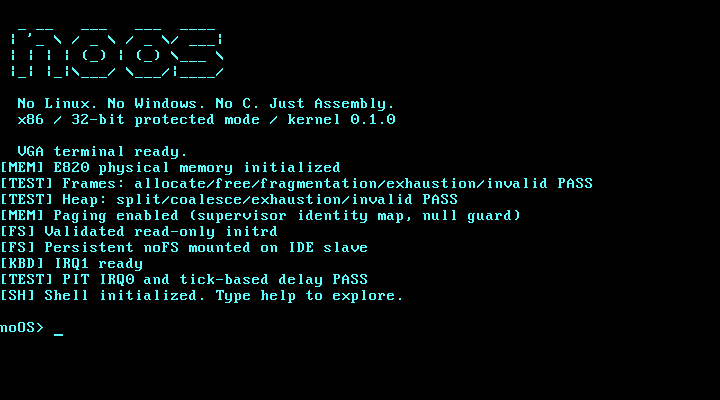
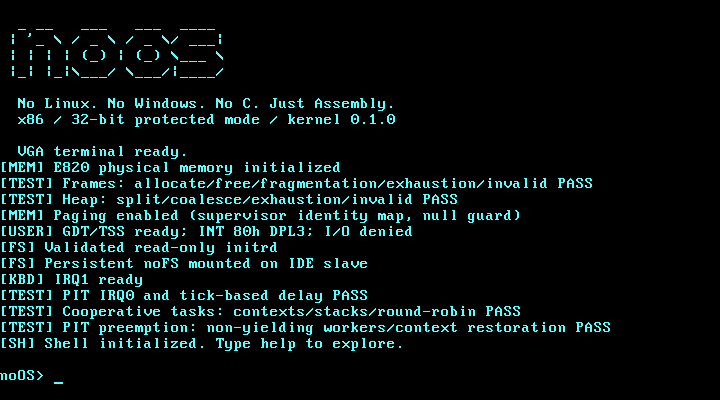
perf(memory): measure real frame allocations and refresh verified build evidence

Changed region(s): [[0.0, 0.57, 0.8556, 0.87], [0.0, 0.93, 0.0611, 0.96]]

diff --git a/tools/benchmark.py b/tools/benchmark.py
@@ -1,6 +1,7 @@
 """Host-observed QEMU latency, including QMP/TCG overhead; no hardware claims."""
 import json
 import pathlib
+import re
 import statistics
 import sys
 import time
@@ -11,6 +12,7 @@ from qemu import Machine
 
 boots = []
 responses = []
+frame_ticks = []
 for _ in range(3):
     start = time.monotonic()
     with Machine() as machine:
@@ -22,12 +24,18 @@ for _ in range(3):
         machine.key("ret")
         machine.wait("noOS 0.1.0", start=offset)
         responses.append((time.monotonic() - start) * 1000)
+        sample = machine.shell("bench", "below tick resolution.")
+        frame_ticks.append(int(re.search(r"elapsed PIT ticks: (\d+)", sample)[1]))
 report = {
     "method": "3 local QEMU TCG pc/128M boots; host wall time including QMP input overhead",
     "boot_to_prompt_ms": boots,
     "median_boot_to_prompt_ms": round(statistics.median(boots), 3),
     "enter_to_version_response_ms": responses,
     "median_enter_to_response_ms": round(statistics.median(responses), 3),
+    "frame_allocator": {"alloc_free_pairs_per_sample": 100000,
+                        "elapsed_pit_ticks": frame_ticks,
+                        "pit_divisor": 11932, "pit_clock_hz": 1193182,
+                        "limits": "Quantized elapsed time includes IRQs; 0 means below one tick."},
     "binary_bytes": {name: (ROOT / "build" / name).stat().st_size
                      for name in ("stage1.bin", "stage2.bin", "kernel.bin", "noos.img")},
     "memory": "128 MiB management ceiling; 64 KiB heap arena; 33 pinned paging frames",

diff --git a/tests/test_memory.py b/tests/test_memory.py
@@ -35,4 +35,9 @@ for memory in ("16M", "64M", "128M", "256M"):
                                                 min(32768, (base + length + 4095) // 4096)))
         assert managed == len(eligible)
         assert used == 33
+        report = machine.shell("bench", "below tick resolution.")
+        assert re.search(r"100000 alloc/free pairs; elapsed PIT ticks: \d+", report)
+        after = machine.shell("mem", "heap arena: 64 KiB")
+        assert int(re.search(r"Free frames: (\d+)", after)[1]) == free
+        assert int(re.search(r"Allocated frames: (\d+)", after)[1]) == used
         print(f"PASS: {memory} E820={usable}KiB, managed={managed}, free={free}, used={used}")

diff --git a/README.md b/README.md
@@ -36,7 +36,7 @@ make run
 ```
 
 On Debian/Ubuntu, install `nasm qemu-system-x86 gdb make python3` instead.
-Verified locally with NASM 3.02, QEMU 11.1.1, GNU Make 3.81, Python 3.14 and
+Verified locally with NASM 3.02, QEMU 11.1.1, GNU Make 3.81, Python 3.12.5 and
 cross GDB 18.1. CI tests Ubuntu's packaged NASM/QEMU/GDB independently.
 
 Use the **QEMU window** for PS/2 keyboard input. The host terminal receives COM1
@@ -50,6 +50,7 @@ halts the guest CPU, while `reboot` restarts the guest.
 | `history` | Eight most recent nonempty commands, including itself |
 | `color FB` | Hex foreground/background; `color e1` is yellow on blue |
 | `mem` | E820 usable RAM, managed/allocated/free frames and heap usage |
+| `bench` | Time 100,000 actual frame allocation/free pairs using PIT ticks |
 | `uptime` | Actual 64-bit PIT ticks and elapsed seconds |
 | `cpu` | CPUID vendor, family, model, stepping and feature bits |
 | `sysinfo` | Kernel, paging, CPU, memory, timer and keyboard IRQ statistics |
@@ -87,6 +88,9 @@ data powers the website. After verifying a gate, update its boolean and run
 `python3 tools/progress.py`; `make test` rejects a stale README or site copy.
 [The full roadmap](docs/roadmap.md) includes persistent storage, scheduling,
 ring 3/syscalls, validated ELF32 loading and a separate future x86-64 path.
+The 40-gate v0.1 checklist is complete; it is a bounded milestone scope, not
+production maturity. Future work includes concurrent user scheduling, NX/PAE,
+power-loss testing and the [separate x86-64 plan](docs/x86-64.md).
 
 ## What is verified
 
@@ -155,24 +159,31 @@ three directory levels and 4 KiB files. The write command is bounded by the
 127-character shell line. It has no encryption or secure deletion, and does
 not promise durability across arbitrary real-device power failures.
 
-### Measured foundation build
+### Measured builds
 
-| Artifact | Bytes |
-| --- | ---: |
-| Stage 1 executable | 512 |
-| Stage 2 executable | 641 |
-| Kernel executable and static data | 27,704 |
-| Raw disk, including sector padding | 32,768 |
+| Artifact | Foundation bytes | v0.1 advanced bytes |
+| --- | ---: | ---: |
+| Stage 1 executable | 512 | 512 |
+| Stage 2 executable | 641 | 641 |
+| Kernel executable and static data, including initrd | 27,704 | 82,001 |
+| Raw disk, including sector padding | 32,768 | 87,040 |
+
+Current measurements were taken on 2026-10-12. The embedded initrd is 17,288
+bytes, including three genuine ELF32 executables. The separate persistent
+data disk is 524,288 bytes and is not included in the boot-image size.
 
 At 128 MiB QEMU RAM, E820 reports 130,559 usable KiB. The allocator tracks
 32,480 usable frames: 33 pinned for paging and 32,447 free after boot. The heap
 arena is in the reserved low-memory region. Run `mem` and `make size` for the
 current build; these values are observations, not hardcoded guest statistics.
 
-Three local QEMU TCG boots measured a 434 ms median from process start to
-prompt, and 19 ms from emulated Enter to `version` response, including QMP/host
-overhead. `make benchmark` writes fresh samples to `build/measurements.json`.
+Three local QEMU TCG boots measured a 462 ms median from process start to
+prompt, and 14 ms from emulated Enter to `version` response, including QMP/host
+overhead. Each sample timed 100,000 real allocation/free pairs at 60 PIT ticks
+(about 600 ms, quantized and including IRQ overhead). `make benchmark` writes
+fresh samples to `build/measurements.json`.
 These observations are not physical-machine benchmarks or timing guarantees.
+See the [recorded methodology and samples](docs/measurements.json).
 
 ## Scope and technical challenges
 

diff --git a/docs/verification.md b/docs/verification.md
@@ -24,8 +24,8 @@ serial/debug logs, inspects emulated physical memory and invokes GNU GDB.
 | Reboot/halt | New kernel boot after reset; HLT=1 and no keyboard output after halt |
 | Usable QEMU/GDB | Actual GNU GDB breakpoint, register checks and instruction inspection |
 | Accurate README | Roadmap sync gate and explicit limits; reviewed against modules |
-| Automated subsystems | Ten focused hardware suites, assembly self-checks and CI |
-| Entire runtime Assembly | All boot/kernel sources NASM; no high-level runtime linked |
+| Automated subsystems | Thirteen focused QEMU/GDB suites, assembly self-checks and CI |
+| Entire runtime Assembly | All boot/kernel/user sources NASM; no high-level runtime linked |
 
 ## Additional checks
 
@@ -80,3 +80,9 @@ runs. Thirty corrupted ELF fixtures cover class/endianness/ABI/type/machine,
 header/table sizes, counts/offset overflow, unsupported segment types, alignment,
 file/memory bounds, W+X, non-executable/out-of-range entry and overlapping pages.
 Each rejection leaves a responsive shell and unchanged allocation count.
+
+The `bench` command performs 100,000 real frame allocation/free pairs. Memory
+tests verify unchanged frame counts afterward at all four RAM sizes. PIT tick
+measurements are quantized and include interrupts/preemption; a zero result
+means less than one tick, not zero work. Host measurements run separately from
+the regression suite to avoid disk locking and competing QEMU workloads.

diff --git a/AGENTS.md b/AGENTS.md
@@ -1,0 +1,22 @@
+# noOS collaboration
+
+Runtime code is NASM Assembly only. Build/test tools may use Make and Python.
+Read the modules and their callers before changing interrupt/context layouts.
+
+For each completed meaningful milestone, run the relevant real QEMU tests,
+update docs and verified progress, commit it and push directly to origin/main.
+The user explicitly requested this workflow and many meaningful commits.
+Keep commits coherent; do not create empty or artificial history.
+
+Progress comes from docs/progress.json, rendered by tools/progress.py and shared
+with the site. Mark gates only after actual evidence. The 40 v0.1 gates are
+complete; future roadmap scopes need explicit new gates, not fabricated credit.
+Run make test and inspect exact-head CI before reporting the build verified.
+
+Keep data/noos-data.img private and preserved by make clean. Never stage build,
+credentials or private artifacts. Never force-push, delete a remote repository,
+change visibility or modify unrelated shared GitHub Pages folders. Publishing
+the site uses the existing noOS/ folder of OthmaneBlial.github.io on master.
+
+Physical hardware, UEFI and x86-64 are unverified. Document limits: one synchronous
+user process, no NX in non-PAE paging, bounded experimental noFS persistence.

diff --git a/CHANGELOG.md b/CHANGELOG.md
@@ -20,6 +20,8 @@
   checked INT 80h calls, controlled fault termination and allocation cleanup.
 - Validated static ELF32/i386 loader, real hello/fault/checks Assembly
   executables, RX/RW mappings, BSS and 30 malformed executable tests.
+- Real frame-allocation benchmark with PIT-quantized measurements and
+  repository instructions preserving the user's verified direct-main workflow.
 
 Foundation measurement: stage1 512 bytes, stage2 641 bytes, kernel 27,704 bytes,
 raw sector-padded image 32,768 bytes. Run `make size` for current source.
